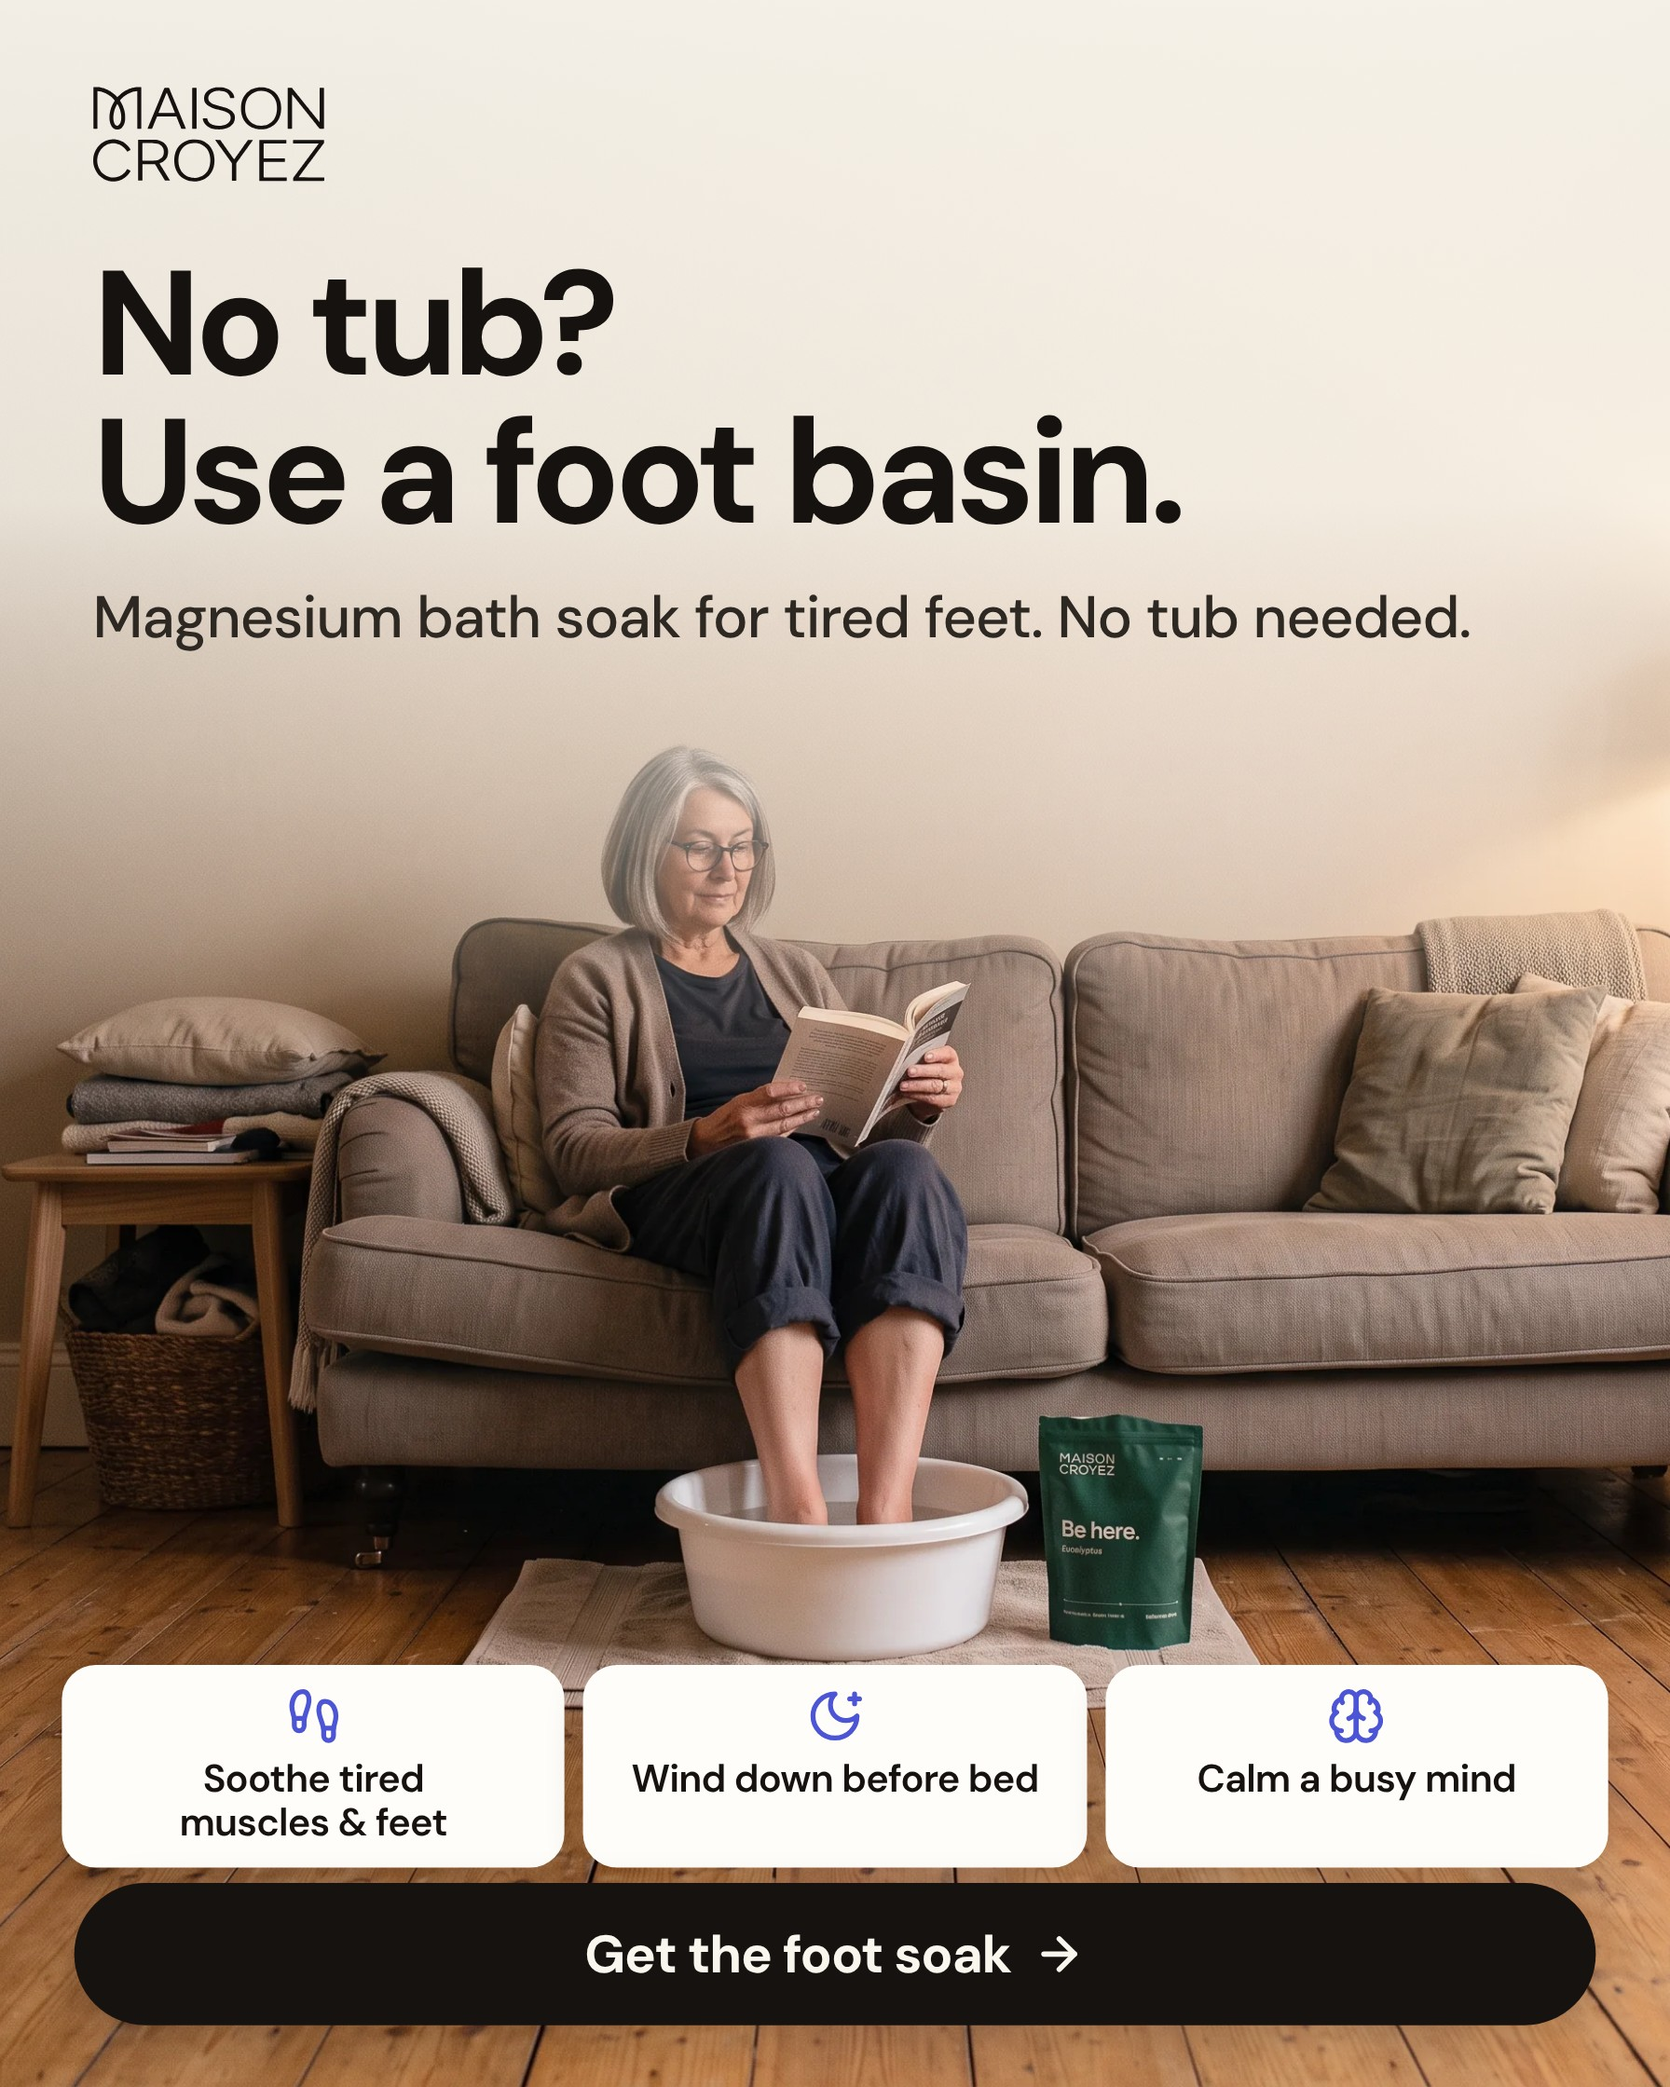
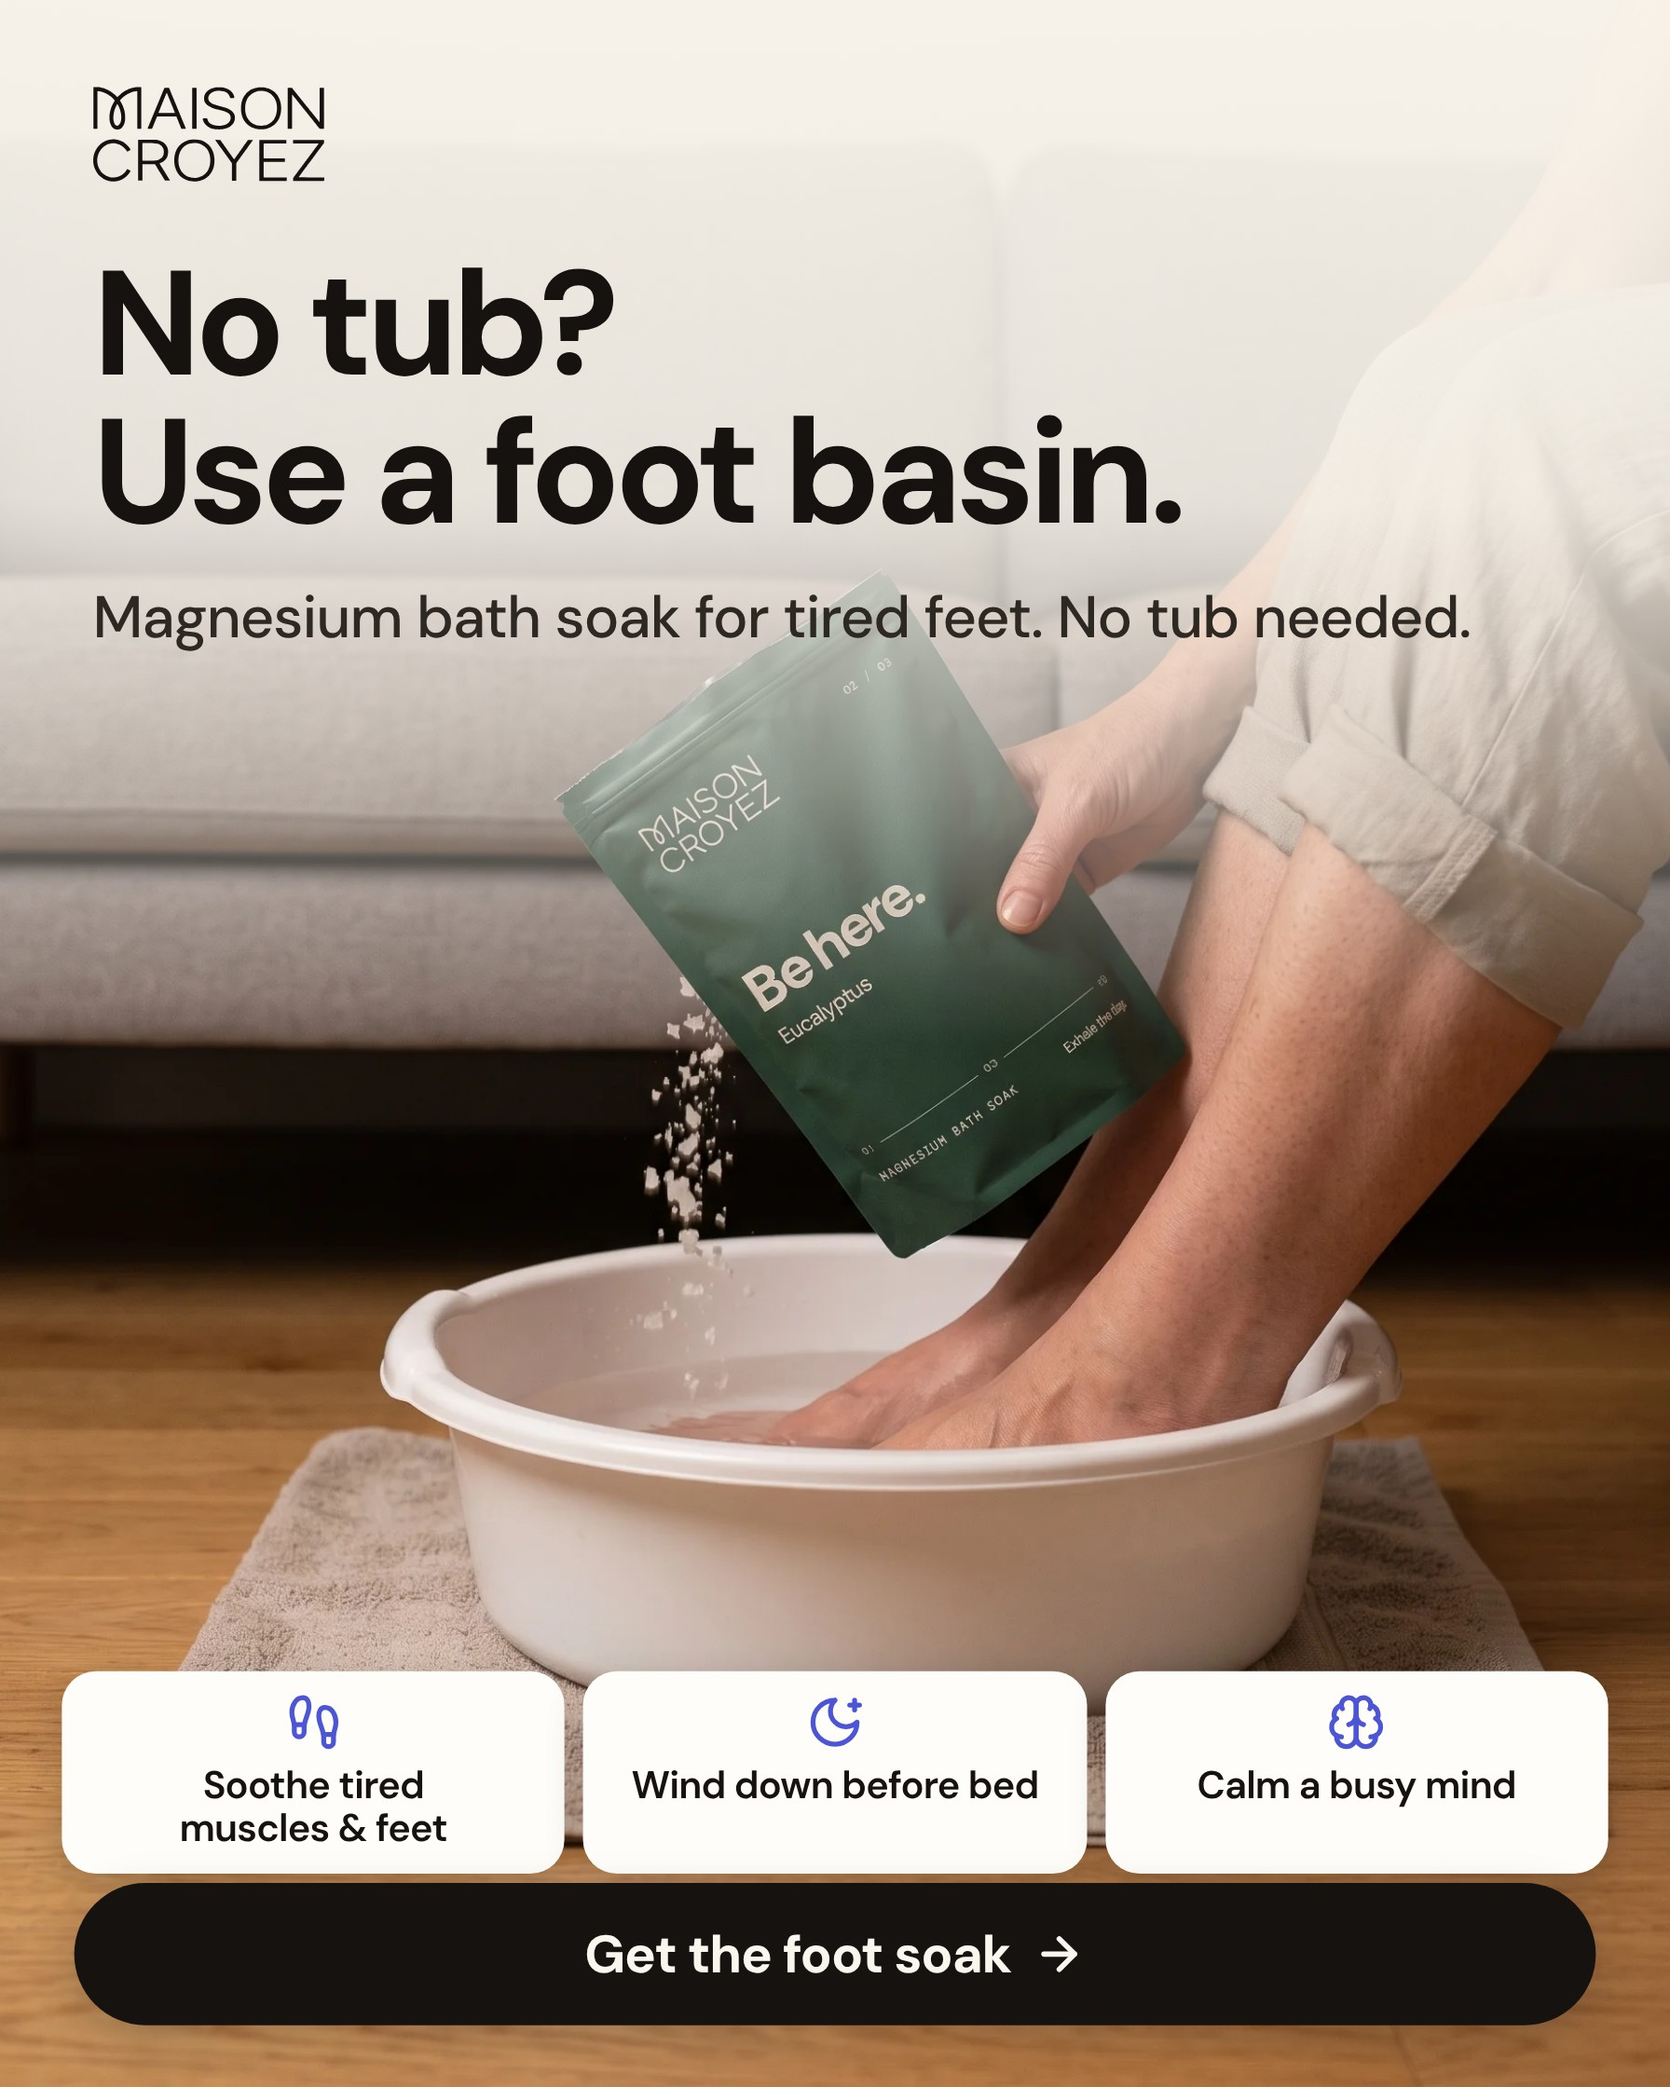
Bath soak ads v3.1: the owner's notes (01, 02, 04), two photos reshot with the bag being poured, the product line under every hook
Claude-Session: https://claude.ai/code/session_01Qt6jwbZYcUd6pzyfawb3Bj

diff --git a/lp-factory/ads/bath-soak/gallery.html b/lp-factory/ads/bath-soak/gallery.html
@@ -48,7 +48,7 @@ dd{margin:0;font-size:15.5px}
       <dt>Headline</dt><dd>Magnesium bath soak for the hour before bed</dd>
       <dt>Description</dt><dd>30-day money-back guarantee</dd>
     </dl>
-    <p class="flag">Zoomed all the way in, the smallest line of print on the bag is not letter-perfect.</p>
+    <p class="flag">“#1” is a ranking claim: say what it is number one in, or have something behind it, before this runs.</p>
     <button type="button" class="copy" data-copy="Tired all day, wide awake at night. If that is your week, start with the hour before bed. Run a warm bath, pour in one bag of magnesium bath soak, and stay in for 15 minutes, 1 to 2 hours before you want to sleep. Three scents made for the night.
 
 Headline: Magnesium bath soak for the hour before bed
@@ -105,7 +105,7 @@ Description: Magnesium bath soak in three night scents">Copy caption</button>
       <dt>Headline</dt><dd>Why the hour before bed matters</dd>
       <dt>Description</dt><dd>The research is linked on the page</dd>
     </dl>
-    <p class="flag">Uses the one supported claim, worded as in the research. The source line says the studies are about warm baths.</p>
+    <p class="flag">Uses the one supported claim, worded as in the research. The source line is removed, as asked; this ad now says “bath soak”, not “magnesium”.</p>
     <button type="button" class="copy" data-copy="In a review of 17 studies, a warm bath 1 to 2 hours before bed helped people fall asleep sooner. As little as 10 minutes was enough. We made those minutes something you look forward to: a magnesium bath soak with a scent made for the night.
 
 Headline: Why the hour before bed matters
@@ -118,7 +118,7 @@ Description: The research is linked on the page">Copy caption</button>
     <span class="lab">05 · The ritual, with times</span>
     <h2>The 15 minutes between your day and your bed.</h2>
     <p class="scene">Three moments of one evening: pour, cool down, sleep</p>
-    <p class="scene"><b>Layout:</b> Timeline of the evening · <b>Button:</b> Shop the magnesium bath soak</p>
+    <p class="scene"><b>Layout:</b> Timeline of the evening · <b>Button:</b> Try it tonight</p>
     <dl>
       <dt>Primary text</dt><dd>An example evening. 8:30, a warm bath with one bag of magnesium bath soak. 9:00, your body cools down, and that drop is a signal for sleep. 10:00, bed. Move the times to fit your night.</dd>
       <dt>Headline</dt><dd>Your new hour before bed</dd>
@@ -136,7 +136,7 @@ Description: Magnesium bath soak, one bag per bath">Copy caption</button>
   <div class="tx">
     <span class="lab">06 · Everything aches</span>
     <h2>Everything aches after the day.</h2>
-    <p class="scene">In the bath, a hand on her neck, the bag on the ledge</p>
+    <p class="scene">On the tub edge, a hand on her neck, pouring the bag into the bath</p>
     <p class="scene"><b>Layout:</b> Photo on top, color block below · <b>Button:</b> Shop now</p>
     <dl>
       <dt>Primary text</dt><dd>The garden, a long shift, a day on your feet. By evening it has settled in your shoulders, your back and your feet. Give it 15 minutes in warm water with one bag of magnesium bath soak.</dd>
@@ -155,14 +155,14 @@ Description: Magnesium bath soak">Copy caption</button>
   <div class="tx">
     <span class="lab">07 · No tub needed</span>
     <h2>No tub? Use a foot basin.</h2>
-    <p class="scene">On the sofa with her feet in a basin, the bag beside it</p>
+    <p class="scene">Pouring the bag into a foot basin by the sofa</p>
     <p class="scene"><b>Layout:</b> Three tiles on the floor · <b>Button:</b> Get the foot soak</p>
     <dl>
       <dt>Primary text</dt><dd>You don’t need a bathtub. A basin of warm water and magnesium bath soak does it: 15 minutes for tired feet at the end of the day, in the scent you picked for the night.</dd>
       <dt>Headline</dt><dd>A magnesium soak that works without a tub</dd>
       <dt>Description</dt><dd>For tired feet</dd>
     </dl>
-    <p class="flag">Zoomed all the way in, the smallest line of print on the bag is not letter-perfect.</p>
+    
     <button type="button" class="copy" data-copy="You don’t need a bathtub. A basin of warm water and magnesium bath soak does it: 15 minutes for tired feet at the end of the day, in the scent you picked for the night.
 
 Headline: A magnesium soak that works without a tub

diff --git a/lp-factory/ads/bath-soak/build-gallery.py b/lp-factory/ads/bath-soak/build-gallery.py
@@ -7,11 +7,10 @@ D = os.path.dirname(os.path.abspath(__file__))
 CFG = json.load(open(os.path.join(D, 'ads.json'), encoding='utf-8'))
 ADS = CFG['ads']
 NOTES = {
-    '04-17-studies': 'Uses the one supported claim, worded as in the research. The source line says the studies are about warm baths.',
+    '04-17-studies': 'Uses the one supported claim, worded as in the research. The source line is removed, as asked; this ad now says “bath soak”, not “magnesium”.',
     '05-clock': 'Uses the one supported claim (the body cooling down), worded as in the research.',
     '09-one-bag': '“One bag, one bath” is still my reading of 250 g. Confirm before running.',
-    '01-awake': 'Zoomed all the way in, the smallest line of print on the bag is not letter-perfect.',
-    '07-foot-soak': 'Zoomed all the way in, the smallest line of print on the bag is not letter-perfect.',
+    '01-awake': '“#1” is a ranking claim: say what it is number one in, or have something behind it, before this runs.',
     '12-gift': 'Zoomed all the way in, the smallest print on the green bag is not letter-perfect.',
 }
 e = html.escape

diff --git a/lp-factory/ads/bath-soak/captions.md b/lp-factory/ads/bath-soak/captions.md
@@ -18,7 +18,7 @@ File: `out/bath-soak-ad-01-awake.jpg`
 
 **Description:** 30-day money-back guarantee
 
-Note: Zoomed all the way in, the smallest line of print on the bag is not letter-perfect.
+Note: “#1” is a ranking claim: say what it is number one in, or have something behind it, before this runs.
 
 ## 02. Tired and wired
 
@@ -44,7 +44,7 @@ File: `out/bath-soak-ad-03-spa-day.jpg`
 
 **Layout:** Benefits in a dark band. **Button:** Shop now
 
-**On the image:** I don’t need a spa day. I need my mind to stop at 10 PM.
+**On the image:** I don’t need a spa day. I need my mind to stop at 10 PM. / Magnesium bath soak for a mind that won’t switch off.
 
 **Primary text:** A magnesium bath soak made for one job: the hour before bed. Magnesium flakes, warm water and a night scent. No ten-step routine. One bag, 15 minutes.
 
@@ -68,7 +68,7 @@ File: `out/bath-soak-ad-04-17-studies.jpg`
 
 **Description:** The research is linked on the page
 
-Note: Uses the one supported claim, worded as in the research. The source line says the studies are about warm baths.
+Note: Uses the one supported claim, worded as in the research. The source line is removed, as asked; this ad now says “bath soak”, not “magnesium”.
 
 ## 05. The ritual, with times
 
@@ -76,9 +76,9 @@ File: `out/bath-soak-ad-05-clock.jpg`
 
 **Photo:** Three moments of one evening: pour, cool down, sleep
 
-**Layout:** Timeline of the evening. **Button:** Shop the magnesium bath soak
+**Layout:** Timeline of the evening. **Button:** Try it tonight
 
-**On the image:** The 15 minutes between your day and your bed.
+**On the image:** The 15 minutes between your day and your bed. / Magnesium bath soak for the hour before bed.
 
 **Primary text:** An example evening. 8:30, a warm bath with one bag of magnesium bath soak. 9:00, your body cools down, and that drop is a signal for sleep. 10:00, bed. Move the times to fit your night.
 
@@ -92,11 +92,11 @@ Note: Uses the one supported claim (the body cooling down), worded as in the res
 
 File: `out/bath-soak-ad-06-aches.jpg`
 
-**Photo:** In the bath, a hand on her neck, the bag on the ledge
+**Photo:** On the tub edge, a hand on her neck, pouring the bag into the bath
 
 **Layout:** Photo on top, color block below. **Button:** Shop now
 
-**On the image:** Everything aches after the day.
+**On the image:** Everything aches after the day. / Magnesium bath soak for tired muscles and feet.
 
 **Primary text:** The garden, a long shift, a day on your feet. By evening it has settled in your shoulders, your back and your feet. Give it 15 minutes in warm water with one bag of magnesium bath soak.
 
@@ -108,19 +108,17 @@ File: `out/bath-soak-ad-06-aches.jpg`
 
 File: `out/bath-soak-ad-07-foot-soak.jpg`
 
-**Photo:** On the sofa with her feet in a basin, the bag beside it
+**Photo:** Pouring the bag into a foot basin by the sofa
 
 **Layout:** Three tiles on the floor. **Button:** Get the foot soak
 
-**On the image:** No tub? Use a foot basin.
+**On the image:** No tub? Use a foot basin. / Magnesium bath soak for tired feet. No tub needed.
 
 **Primary text:** You don’t need a bathtub. A basin of warm water and magnesium bath soak does it: 15 minutes for tired feet at the end of the day, in the scent you picked for the night.
 
 **Headline:** A magnesium soak that works without a tub
 
 **Description:** For tired feet
-
-Note: Zoomed all the way in, the smallest line of print on the bag is not letter-perfect.
 
 ## 08. Legs won't settle
 
@@ -130,7 +128,7 @@ File: `out/bath-soak-ad-08-legs.jpg`
 
 **Layout:** Checklist panel beside her. **Button:** Shop now
 
-**On the image:** For legs that need to settle before bed.
+**On the image:** For legs that need to settle before bed. / Magnesium bath soak for tired legs and feet.
 
 **Primary text:** You lie down and your legs are still going. Before bed, give them a warm soak: 15 minutes in the tub or a foot basin, with magnesium bath soak and a scent made for the night.
 
@@ -146,7 +144,7 @@ File: `out/bath-soak-ad-09-one-bag.jpg`
 
 **Layout:** One card with icons. **Button:** Shop now
 
-**On the image:** One bag. One bath. Nothing to measure. / Pour it in. Soak for 15 minutes.
+**On the image:** One bag. One bath. Nothing to measure. / Magnesium bath soak for the hour before bed. Pour it in, soak 15 minutes.
 
 **Primary text:** No scoops and no guessing. One bag of magnesium bath soak is one bath: run the water warm, pour it in, and soak for 15 minutes before bed.
 
@@ -180,7 +178,7 @@ File: `out/bath-soak-ad-11-honest.jpg`
 
 **Layout:** Three round stickers. **Button:** Try it tonight
 
-**On the image:** Not a supplement. Not a sleeping pill. / Just a magnesium bath soak.
+**On the image:** Not a supplement. Not a sleeping pill. / A magnesium bath soak for the hour before bed.
 
 **Primary text:** We won’t tell you a bath raises your magnesium levels. What a warm bath before bed can do is help you wind down, and the research on that is real. A magnesium bath soak, warm water and a scent you look forward to.
 
@@ -196,7 +194,7 @@ File: `out/bath-soak-ad-12-gift.jpg`
 
 **Layout:** Color block on top, benefits as tags. **Button:** Gift the sampler
 
-**On the image:** For the mom who never sits down.
+**On the image:** For the mom who never sits down. / Magnesium bath soak for her evening, in three night scents.
 
 **Primary text:** She looks after everyone. This gives her 15 minutes of her own: a warm bath, magnesium bath soak and three scents made for the evening.
 

diff --git a/lp-factory/ads/bath-soak/README.md b/lp-factory/ads/bath-soak/README.md
@@ -31,6 +31,27 @@ title, the button itself); the script checks that every ad says "magnesium bath 
 leaves the frame. The benefit wording is the same three everywhere; their order changes with the audience (`order`):
 mind first on 01 to 03, muscles and feet first on 06 to 08.
 
+### Version 3.1, 2026-11-19: the owner's notes on version 3
+
+His words: "01: Change magnesium bath soak for -> #1 Magnesium Bath Soak for the hour before bed. Let's also add a
+picture on a circle pouring the soak into the bathtub so they know. Delete the lavender word. / 02: Delete the magnesium
+bath soak from there and add a title above the shop now button, big: TRY OUR MAGNESIUM BATH SOAK / 04: REMOVE THE review
+of 17 studies ... Also -> Try our Bath Soak. / 06: re-do the image because package looks weird. / most of the images
+should be like 09 where the product is being used ... at least the ones where the product is not clear enough. / My
+favorite is 10 because when you say magnesium bath soak for ...... it's more clear. Let's try to implement that as well."
+
+- 01: the line above the button is "#1 Magnesium Bath Soak for the hour before bed."; a round picture of the bag being
+  poured into the bath (img/pour-lavender.webp, one of the first test photos) with "Pour it in the bath"; "Lavender" gone.
+  TOLD TO HIM: "#1" is a ranking claim and needs something behind it.
+- 02: the pill by the logo is gone; "TRY OUR MAGNESIUM BATH SOAK" in large type above the button.
+- 04: the source line is gone; the words beside the button are "Try our Bath Soak." (his wording: this ad no longer
+  says "magnesium" outside the bag).
+- 06: new photo, the bag being poured while she holds her neck (r5-aches-a). The product line sits in the purple block
+  and the button is full width.
+- 07: new photo, the bag being poured into the foot basin (r5-foot-b), because the bag was small in the old one.
+- "Magnesium bath soak for ..." as the line under the hook, the way ad 10 does it, on 03, 05, 06, 07, 08, 09, 11
+  and 12. Where that made the product name appear twice, the second one became something else (`name`, `panelTitle`).
+
 ## Version 2, 2026-11-19 (replaced by the layouts above; the photos are still these)
 
 The owner on version 1: the branding is fine, but (1) every ad must show the product itself, in use or as a product
